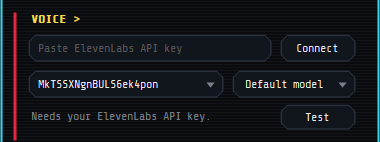
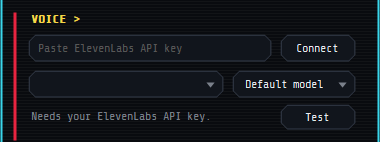
The setup guide brings back the brain step and has you use your own Voice ID

Changed region(s): [[0.0868, 0.5634, 0.4342, 0.6479]]

diff --git a/site/setup/index.html b/site/setup/index.html
@@ -4,7 +4,7 @@
   <meta charset="UTF-8">
   <meta name="viewport" content="width=device-width, initial-scale=1">
   <meta name="theme-color" content="#ffffff">
-  <meta name="description" content="Set up Capri on your desktop: install and her voice.">
+  <meta name="description" content="Set up Capri on your desktop: install, her brain, her voice.">
   <title>Set up Capri</title>
   <link rel="icon" type="image/x-icon" href="../assets/chip.ico">
   <link rel="stylesheet" href="../style.css">
@@ -22,7 +22,7 @@
     </header>
     <main class="guide">
       <h1>Set up <em>Capri</em></h1>
-      <nav class="guide-jump" aria-label="Steps"><a href="#install">1 Install</a><a href="#voice">2 Voice</a><a href="#talk">3 Talk</a><a href="#stuck">Stuck?</a></nav>
+      <nav class="guide-jump" aria-label="Steps"><a href="#install">1 Install</a><a href="#brain">2 Brain</a><a href="#voice">3 Voice</a><a href="#talk">4 Talk</a><a href="#stuck">Stuck?</a></nav>
 
       <section id="install" class="step">
         <h2><span class="step-number">1</span>Install <small>Windows only</small></h2>
@@ -35,16 +35,27 @@
         <p class="note">Windows warns because Capri is new and not signed yet. The code is open on <a href="https://github.com/lachydotmcg/capri-desktop" target="_blank" rel="noopener noreferrer">GitHub</a>.</p>
       </section>
 
+      <section id="brain" class="step">
+        <h2><span class="step-number">2</span>Her brain <small>free, runs on your PC</small></h2>
+        <ol class="moves">
+          <li>The <b>Capri Mainframe</b> opens by itself</li>
+          <li><b>Set up her brain</b></li>
+          <li>Wait for the download. She says hi when it's done</li>
+        </ol>
+        <p class="note">Already use Ollama? Open it, then press <b>Refresh</b>.</p>
+        <img class="shot" src="../assets/guide-brain.png" alt="Capri Mainframe with the Set up her brain button" width="380" height="290" loading="lazy">
+      </section>
+
       <section id="voice" class="step">
-        <h2><span class="step-number">2</span>Her voice <small>ElevenLabs</small></h2>
-        <p class="note">She talks and listens through ElevenLabs.</p>
+        <h2><span class="step-number">3</span>Her voice <small>optional, ElevenLabs</small></h2>
+        <p class="note">Skip this and she types her replies instead. Voice chat needs it.</p>
 
         <h3>Account</h3>
         <ol class="moves">
           <li>Sign up at <a href="https://elevenlabs.io" target="_blank" rel="noopener noreferrer">elevenlabs.io</a></li>
         </ol>
 
-        <h3>Design her voice <small>optional</small></h3>
+        <h3>Design her voice</h3>
         <ol class="moves">
           <li><b>ElevenCreative</b> → <b>Voice Creation</b> → <b>Voice Design</b></li>
           <li>Paste this prompt, then create the voice
@@ -71,16 +82,17 @@
         <h3>In the Mainframe</h3>
         <ol class="moves">
           <li>Paste the key → <b>Connect</b></li>
-          <li>Paste your Voice ID over the one in the box below it, or keep it</li>
+          <li>Clear the Voice ID box, then paste your Voice ID</li>
           <li><b>Test</b></li>
         </ol>
         <img class="shot" src="../assets/guide-voice.png" alt="Capri Mainframe voice section with the API key box, Connect, the Voice ID box and Test" width="380" height="142" loading="lazy">
       </section>
 
       <section id="talk" class="step">
-        <h2><span class="step-number">3</span>Talk to her</h2>
+        <h2><span class="step-number">4</span>Talk to her</h2>
         <dl class="keys">
-          <dt>Wave</dt><dd>voice chat, just talk</dd>
+          <dt>Pencil</dt><dd>type to her</dd>
+          <dt>Wave</dt><dd>voice chat, needs the key</dd>
           <dt>Mic button</dt><dd>mute your mic while chatting</dd>
           <dt>Drag</dt><dd>sit her on a window</dd>
           <dt>Ctrl + Alt + C</dt><dd>unseat her</dd>
@@ -93,7 +105,7 @@
         <dl class="stuck">
           <dt>“ElevenLabs rejected the key”</dt><dd>That isn't the key. Keys start with <code>sk_</code>. Make a new one and paste it.</dd>
           <dt>“Key needs … access”</dt><dd>Fix the key's permissions, or turn <b>Restrict key</b> off.</dd>
-          <dt>“Voice not found”</dt><dd>Paste the Voice ID from My Voices, not the voice's name.</dd>
+          <dt>“Voice not found”</dt><dd>Paste the Voice ID of the voice you designed, from My Voices, not its name.</dd>
           <dt>“Out of ElevenLabs credits”</dt><dd>Credits refill each month. She uses about one per letter she says.</dd>
           <dt>“Free tier usage disabled”</dt><dd>Turn off your VPN and try again.</dd>
           <dt>She can't hear you</dt><dd>Windows Settings → Privacy &amp; security → Microphone → let desktop apps use it.</dd>
